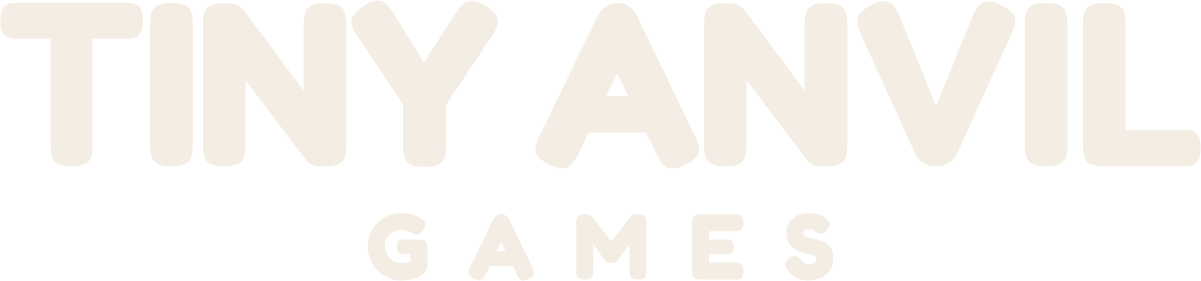
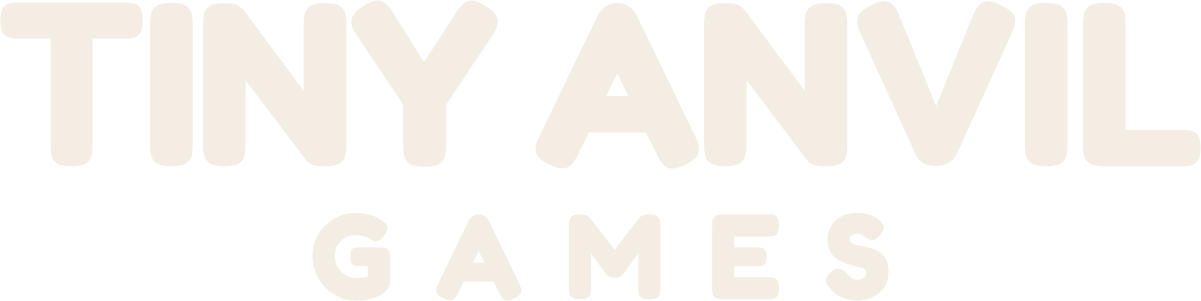
Branding: bigger GAMES line (wordmarks, timings, layers, splash preview)

diff --git a/assets/branding/studio/src/build.py b/assets/branding/studio/src/build.py
@@ -89,7 +89,8 @@ def build_games(GAMES_RATIO, track_em, gap_ratio):
   mc=((mmin[0]+mmax[0])/2,(mmin[1]+mmax[1])/2); gc=((gmin[0]+gmax[0])/2,(gmin[1]+gmax[1])/2)
   WM="".join(f'<path d="{d}"/>' for d in MAIN+GAMES)
   tb_top=mmin[1]; tb_bot=gmax[1]; tb_h=tb_bot-tb_top; tb_mid=(tb_top+tb_bot)/2
-build_games(0.40, 0.42, 0.30)    # GAMES cap = 40% of TINY ANVIL cap, spaced caps, gap 0.30 cap
+GAMES_CAP, GAMES_TRACK_EM, GAMES_GAP = 0.52, 0.36, 0.30   # v1.1 (2026-10-19): GAMES cap 52% of TINY ANVIL cap (was 40% / +0.42 em), spaced caps, gap 0.30 cap
+build_games(GAMES_CAP, GAMES_TRACK_EM, GAMES_GAP)
 WW=1200.0; ws=WW/(mmax[0]-mmin[0])   # TINY ANVIL line = 1200 px at 2x
 def vb_of(lo,hi,p=6): return (lo[0]-p,lo[1]-p,hi[0]-lo[0]+2*p,hi[1]-lo[1]+2*p)
 def paths_svg(ps,color,vb): return svg_doc(vb,"".join(f'<path d="{d}" fill="{color}"/>' for d in ps))
@@ -101,7 +102,7 @@ for cname,c in (("cream",CREAM),("charcoal",CHAR)):
     vb=vb_of(mmin,mmax); svg=paths_svg(MAIN,c,vb); save_svg(f"wordmark_main_{cname}",svg); render(svg,vb,ws,f"wordmark_main_{cname}",{"center":mc})
     vb=vb_of(gmin,gmax); svg=paths_svg(GAMES,c,vb); save_svg(f"wordmark_games_{cname}",svg); render(svg,vb,ws,f"wordmark_games_{cname}",{"center":gc})
 meta["_wordmark_geometry"]={"games_center_offset_from_main_center_px_2x":[round((gc[0]-mc[0])*ws,1),round((gc[1]-mc[1])*ws,1)],
-  "games_cap_ratio":0.40,"main_line_width_px_2x":WW}
+  "games_cap_ratio":GAMES_CAP,"games_track_em":GAMES_TRACK_EM,"games_width_ratio":round((gmax[0]-gmin[0])/(mmax[0]-mmin[0]),3),"main_line_width_px_2x":WW}
 WM="".join(f'<path d="{d}"/>' for d in MAIN+GAMES)
 tb_top=mmin[1]; tb_bot=gmax[1]; tb_h=tb_bot-tb_top; tb_mid=(tb_top+tb_bot)/2
 

diff --git a/assets/branding/studio/README.md b/assets/branding/studio/README.md
@@ -14,18 +14,18 @@ Pivots are **in pixels from the top-left of that PNG** (also machine-readable in
 | `hammer.png` / `hammer.svg` | 524×202 | **grip (485.2, 120.4)**; head_face_center (72.4, 197.2); head_center (72.4, 120.4) | Head + handle are ONE layer. Neutral pose: handle horizontal, head left, striking face down. Cream with an orange grip band. |
 | `spark.png` / `spark.svg` | 83×81 | **center (41.6, 40.6)** | Hero four-point spark, Forge Orange. |
 | `spark_particle.png` / `.svg` | 64×64 | center (32, 32) | White, soft falloff, for GPUParticles2D (tint via color_ramp). Not trimmed: particles need a square texture. |
-| `wordmark_cream.png` / `.svg` | 1201×281 | **main_center (600.4, 84.4)**; games_center (600.4, 246.5); center (600.4, 140.3); baseline_left (0.4, 164.1) | TINY ANVIL (≈1200 px wide) + GAMES under it, Cream. |
-| `wordmark_charcoal.png` / `.svg` | 1201×281 | same as cream | Charcoal, for light backgrounds. |
-| `wordmark_main_{cream,charcoal}.png/.svg` | 1201×169 | center (600.4, 84.4) | Sub-layer: TINY ANVIL only (for the delayed GAMES reveal). |
-| `wordmark_games_{cream,charcoal}.png/.svg` | 466×68 | center (233.1, 34.1) | Sub-layer: GAMES only. Its center is (0, +162.1) px from the main center at 2x. |
+| `wordmark_cream.png` / `.svg` | 1201×301 | **main_center (600.4, 84.4)**; games_center (600.4, 256.6); center (600.4, 150.4); baseline_left (0.4, 164.1) | TINY ANVIL (≈1200 px wide) + GAMES under it, Cream. |
+| `wordmark_charcoal.png` / `.svg` | 1201×301 | same as cream | Charcoal, for light backgrounds. |
+| `wordmark_main_{cream,charcoal}.png/.svg` | 1201×169 | center (600.4, 84.4) | Sub-layer: TINY ANVIL only (for the delayed GAMES reveal). **Never ship it on its own**: always pair it with `wordmark_games_*`; the studio name is "Tiny Anvil Games". |
+| `wordmark_games_{cream,charcoal}.png/.svg` | 575×88 | center (287.4, 44.2) | Sub-layer: GAMES only. Its center is (0, +172.1) px from the main center at 2x. |
 
 Background = a ColorRect `#1E1B1A` (no texture).
 
 ## Logo files
 | File | Size | Use |
 |---|---|---|
-| `logo_lockup_stacked.png/.svg` (+ `_on_light`) | 1124×688 | Anvil + spark over TINY ANVIL / GAMES. Default = cream text for dark backgrounds, `_on_light` = charcoal text. |
-| `logo_lockup_horizontal.png/.svg` (+ `_on_light`) | 1517×283 | Anvil left, the two-line wordmark right. |
+| `logo_lockup_stacked.png/.svg` (+ `_on_light`) | 1124×707 | Anvil + spark over TINY ANVIL / GAMES. Default = cream text for dark backgrounds, `_on_light` = charcoal text. |
+| `logo_lockup_horizontal.png/.svg` (+ `_on_light`) | 1517×299 | Anvil left, the two-line wordmark right. |
 | `logo_lockup_stacked_small.png/.svg` (+ `_on_light`) | 450×287 | **Use at ≤ 240 px wide.** GAMES is enlarged to 62% cap height with tighter tracking so it stays legible at 120 px wide. |
 | `logo_lockup_horizontal_small.png/.svg` (+ `_on_light`) | 455×93 | Small-use horizontal. Min ~200 px wide (at 120 px use the stacked small version). |
 | `icon.png/.svg` | 1024×1024 | App icon: an orange anvil + spark on a rounded charcoal square. No wordmark, no GAMES. |
@@ -35,7 +35,7 @@ Background = a ColorRect `#1E1B1A` (no texture).
 ## Wordmark construction
 - Font: **Fredoka** (variable, Google Fonts / github.com/hafontia/Fredoka-One, v2.001), instanced at wght 700, wdth 100 → `src/Fredoka-Bold-instance.ttf`. Shaped with HarfBuzz (kerning on), then converted to paths with fontTools.
 - TINY ANVIL: tracking −12/1000 em, word space −30/1000 em (tight).
-- GAMES: cap height **40%** of the TINY ANVIL cap height, tracking +0.42 em (of its own size), centered under TINY ANVIL, with its cap top 0.30 × cap height below the TINY ANVIL baseline. The small lockups use 62% / +0.22 em / 0.26.
+- GAMES (v1.1, 2026-10-19): cap height **52%** of the TINY ANVIL cap height (was 40%), tracking +0.36 em (was +0.42), width ≈ 48% of TINY ANVIL (of its own size), centered under TINY ANVIL, with its cap top 0.30 × cap height below the TINY ANVIL baseline. The small lockups use 62% / +0.22 em / 0.26.
 - **License:** SIL Open Font License 1.1, see `src/OFL.txt` (Copyright 2016 The Fredoka Project Authors). No Reserved Font Name is declared. Outlined artwork is not a font redistribution. Keep `OFL.txt` next to the font file if the TTF is ever shipped.
 
 ## Other

diff --git a/assets/branding/studio/splash_motion.md b/assets/branding/studio/splash_motion.md
@@ -19,12 +19,12 @@ Previews: `/workspace/dice/art/concept/studio_logo_final/splash_storyboard.png`.
 | sparks / hero | `spark.png` (83×81) | center (41.6, 40.6) | starts (1000.5, 401.4) → home (863.7, 382.2) | 3 |
 | sparks / burst | GPUParticles2D, `spark_particle.png` 64×64 white | center | emitter at (1000.5, 401.4) | 3 |
 | wordmark / main | `wordmark_main_cream.png` (1201×169) | center (600.4, 84.4) | (960.0, 630.0) | 1 |
-| wordmark / games | `wordmark_games_cream.png` (466×68) | center (233.1, 34.1) | (960.0, 711.0) | 1 |
+| wordmark / games | `wordmark_games_cream.png` (575×88) | center (287.4, 44.2) | (960.0, 716.0) | 1 |
 
 - Anvil x 993.3 centers the anvil's *bounding box* on screen (its base is right of center because of the horn).
 - Strike point = the top of the anvil face, 14.4 px right of the base center at 2x (`anvil.png` strike_point pivot (331.0, 0.6)).
 - At hammer rotation 0 the striking face sits on the strike point. At rotation 80° the head is straight up above the grip.
-- Single-sprite fallback: `wordmark_cream.png` (1201×281, TINY ANVIL + GAMES baked) with pivot main_center (600.4, 84.4) at (960, 630). Using it loses the GAMES delay.
+- Single-sprite fallback: `wordmark_cream.png` (1201×301, TINY ANVIL + GAMES baked) with pivot main_center (600.4, 84.4) at (960, 630). Using it loses the GAMES delay.
 
 ## Beat sheet
 | t (s) | Beat |
@@ -104,7 +104,7 @@ The pivot is the base center, so squash stays planted on the floor line.
 | prop | start | dur | from → to | trans / ease |
 |---|---|---|---|---|
 | modulate:a | 1.15 | 0.20 | 0 → 1 | LINEAR |
-| position:y | 1.15 | 0.30 | 721.0 → 711.0 | QUAD / OUT |
+| position:y | 1.15 | 0.30 | 726.0 → 716.0 | QUAD / OUT |
 | scale | 1.15 | 0.35 | (1.10, 1.0) → (1, 1) (reads as letters tracking in) | CUBIC / OUT |
 | modulate:a | 2.20 | 0.30 | 1 → 0 | SINE / IN |
 
